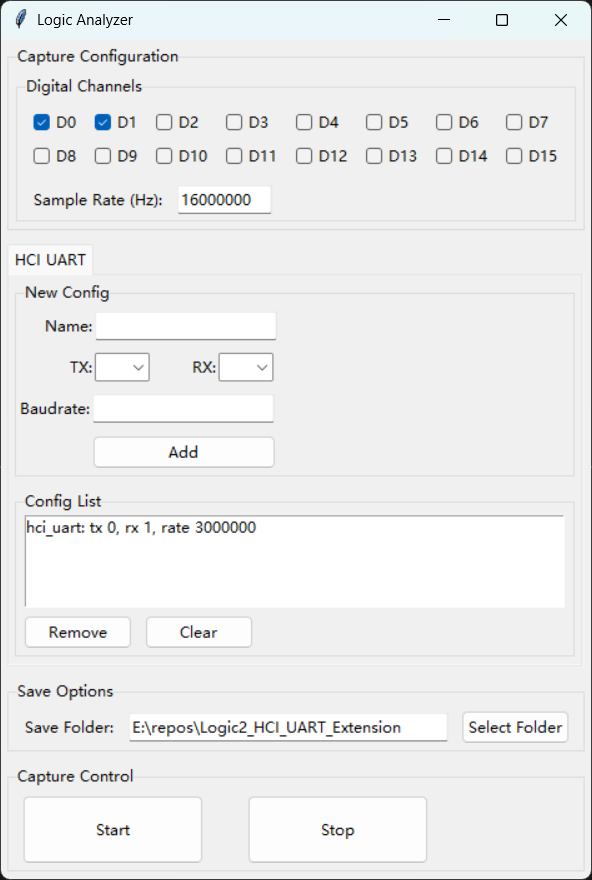
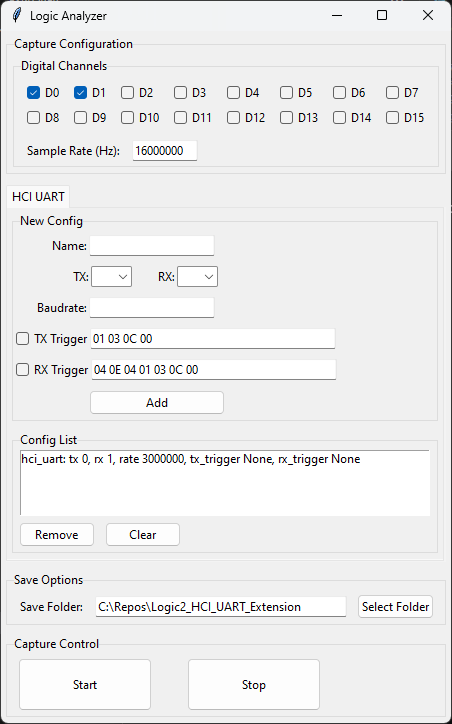
Add tx/rx trigger function, user can start HCI UART decoder with a special sequence.

diff --git a/logic2_analyzer_gui.py b/logic2_analyzer_gui.py
@@ -108,13 +108,19 @@ class GUI:
         frame_row_4 = ttk.Frame(frame_hci_uart_add)
         frame_row_4.pack(fill=tk.X, pady=5)
 
-        label_hci_uart_port_name = ttk.Label(frame_row_1, text="     Name:")
+        frame_row_5 = ttk.Frame(frame_hci_uart_add)
+        frame_row_5.pack(fill=tk.X, pady=5)
+
+        frame_row_6 = ttk.Frame(frame_hci_uart_add)
+        frame_row_6.pack(fill=tk.X, pady=5)
+
+        label_hci_uart_port_name = ttk.Label(frame_row_1, text="            Name:")
         label_hci_uart_port_name.pack(side='left')
         
         self.entry_hci_uart_port_name = ttk.Entry(frame_row_1, width=20)
         self.entry_hci_uart_port_name.pack(side='left')
         
-        label_hci_uart_port_tx = ttk.Label(frame_row_2, text="          TX:")
+        label_hci_uart_port_tx = ttk.Label(frame_row_2, text="                   TX:")
         label_hci_uart_port_tx.pack(side='left')
         
         self.combo_hci_uart_port_selector_tx = ttk.Combobox(frame_row_2, width=3, values=[i for i in range(16)])
@@ -126,15 +132,33 @@ class GUI:
         self.combo_hci_uart_port_selector_rx = ttk.Combobox(frame_row_2, width=3, values=[i for i in range(16)])
         self.combo_hci_uart_port_selector_rx.pack(side='left')
 
-        label_hci_uart_port_baudrate = ttk.Label(frame_row_3, text="Baudrate:")
+        label_hci_uart_port_baudrate = ttk.Label(frame_row_3, text="       Baudrate:")
         label_hci_uart_port_baudrate.pack(side='left')
 
         self.entry_hci_uart_port_baudrate = ttk.Entry(frame_row_3, width=20)
         self.entry_hci_uart_port_baudrate.pack(side='left')
 
+        self.tx_trigger = tk.BooleanVar(value=False)
+        check_button_tx_trigger = ttk.Checkbutton(frame_row_4, text=f"TX Trigger", variable=self.tx_trigger)
+        check_button_tx_trigger.pack(side='left')
+
+        tx_trigger_vlidate_cmd = (root.register(self.tx_trigger_validate), '%P')
+        self.tx_trigger_frame_var = tk.StringVar(value="01 03 0C 00") # HCI RESET CMD: 01 03 0C 00
+        entry_tx_trigger = ttk.Entry(frame_row_4, width=40, textvariable=self.tx_trigger_frame_var, validate='key', validatecommand=tx_trigger_vlidate_cmd)
+        entry_tx_trigger.pack(side='left')
+
+        self.rx_trigger = tk.BooleanVar(value=False)
+        check_button_rx_trigger = ttk.Checkbutton(frame_row_5, text=f"RX Trigger", variable=self.rx_trigger)
+        check_button_rx_trigger.pack(side='left')
+
+        rx_trigger_vlidate_cmd = (root.register(self.rx_trigger_validate), '%P')
+        self.rx_trigger_frame_var = tk.StringVar(value="04 0E 04 01 03 0C 00") # HCI RESET RES: 04 0E 04 01 03 0C 00
+        entry_rx_trigger = ttk.Entry(frame_row_5, width=40, textvariable=self.rx_trigger_frame_var, validate='key', validatecommand=rx_trigger_vlidate_cmd)
+        entry_rx_trigger.pack(side='left')
+
         ## HCI UART Port Add
-        btn_uart_port_add = ttk.Button(frame_row_4, text="Add", command=self.hci_uart_port_add)
-        btn_uart_port_add.pack(side='left', padx=60, ipadx=30)
+        btn_uart_port_add = ttk.Button(frame_row_6, text="Add", command=self.hci_uart_port_add)
+        btn_uart_port_add.pack(side='left', padx=75, ipadx=30)
 
         ## Listbox
         frame_hci_uart_list = ttk.LabelFrame(root, text="Config List")
@@ -142,7 +166,7 @@ class GUI:
 
         self.hci_uart_listbox = tk.Listbox(frame_hci_uart_list, height=4)
         self.hci_uart_listbox.pack(padx=5, fill='both')
-        self.hci_uart_listbox.insert(1, "hci_uart: tx 0, rx 1, rate 3000000")
+        self.hci_uart_listbox.insert(1, "hci_uart: tx 0, rx 1, rate 3000000, tx_trigger None, rx_trigger None")
 
         btn_uart_port_remove = ttk.Button(frame_hci_uart_list, text="Remove", command=self.hci_uart_port_remove)
         btn_uart_port_remove.pack(side='left', padx=5, pady=5)
@@ -150,6 +174,42 @@ class GUI:
         btn_uart_port_clear = ttk.Button(frame_hci_uart_list, text="Clear", command=self.hci_uart_port_remove_all)
         btn_uart_port_clear.pack(side='left', padx=5, pady=5)
 
+    def tx_trigger_validate(self, value):
+        value_str = value
+
+        if value_str == '':
+            return True
+
+        try:
+            value_str = [x for x in value_str.split(' ')]
+            if value_str[-1] == '':
+                value_str.pop()
+            values = [int(x, 16) for x in value_str]
+
+            if len(values) > 0 and all(0 <= x <= 255 for x in values):
+                return True
+        except:
+            return False
+    
+        return False
+
+    def rx_trigger_validate(self, value):
+        value_str = value
+
+        if value_str == '':
+            return True
+
+        try:
+            value_str = [x for x in value_str.split(' ')]
+            if value_str[-1] == '':
+                value_str.pop()
+            values = [int(x, 16) for x in value_str]
+            if len(values) > 0 and all(0 <= x <= 255 for x in values):
+                return True
+        except:
+            return False
+    
+        return False
 
     def __ui_save_config(self, root):
         # Save Options
@@ -194,8 +254,10 @@ class GUI:
         tx   = int(self.combo_hci_uart_port_selector_tx.get())
         rx   = int(self.combo_hci_uart_port_selector_rx.get())
         baudrate = int(self.entry_hci_uart_port_baudrate.get())
+        tx_trigger = self.tx_trigger_frame_var.get() if self.tx_trigger.get() else None
+        rx_trigger = self.rx_trigger_frame_var.get() if self.rx_trigger.get() else None
 
-        new_config = f"{name}: tx {tx}, rx {rx}, rate {baudrate}"
+        new_config = f"{name}: tx {tx}, rx {rx}, rate {baudrate}, tx_trigger {tx_trigger}, rx_trigger {rx_trigger}"
 
         # skip if duplicate
         for i in range(self.hci_uart_listbox.size()):
@@ -258,7 +320,8 @@ class GUI:
         for index in range(self.hci_uart_listbox.size()):
             config_str = self.hci_uart_listbox.get(index)
 
-            res = re.findall(r"(\w+): tx (\d+), rx (\d+), rate (\d+)", config_str)
+            # f"{name}: tx {tx}, rx {rx}, rate {baudrate}, tx_trigger {tx_trigger}, rx_trigger {rx_trigger}"
+            res = re.findall(r"(\w+): tx (\d+), rx (\d+), rate (\d+), tx_trigger (.*?), rx_trigger (.*+)", config_str)
             if res == []:
                 continue
 
@@ -268,8 +331,10 @@ class GUI:
             tx   = int(res[1])
             rx   = int(res[2])
             rate = int(res[3])
+            tx_trigger = res[4] if res[4] != 'None' else ''
+            rx_trigger = res[5] if res[5] != 'None' else ''
 
-            self.analyzer.export_btsnoop(name, tx_channel=tx, rx_channel=rx, bit_rate=rate)
+            self.analyzer.export_btsnoop(name, tx_channel=tx, rx_channel=rx, bit_rate=rate, trigger_frame_tx=tx_trigger, trigger_frame_rx=rx_trigger)
         
             info += f"{name} btsnoop generated!\n"
 

diff --git a/HCI_UART/HighLevelAnalyzer.py b/HCI_UART/HighLevelAnalyzer.py
@@ -7,7 +7,9 @@ from saleae.analyzers import HighLevelAnalyzer, AnalyzerFrame, StringSetting, Nu
 # High level analyzers must subclass the HighLevelAnalyzer class.
 class Hla(HighLevelAnalyzer):
 
-    role_choice = ChoicesSetting(choices=("Host->Controller", "Controller->Host"))
+    s1_role_choice = ChoicesSetting(label="Role Choice", choices=["Host->Controller", "Controller->Host"])
+    s2_decode_mode = ChoicesSetting(label="Decode Mode", choices=["Always", "Trigger"])
+    s3_decode_trigger_frame = StringSetting(label="Decode Trigger Frame") # HCI RESET: 01 03 0C 00, RES: 04 0E 04 01 03 0C 00
 
     # An optional list of types this analyzer produces, providing a way to customize the way frames are displayed in Logic 2.
     result_types = {
@@ -40,8 +42,6 @@ class Hla(HighLevelAnalyzer):
     }
 
     def __init__(self):
-        print("Settings:", self.role_choice)
-
         # receive state
         self.state = self.HCI_PACK_IDEL
 
@@ -50,6 +50,25 @@ class Hla(HighLevelAnalyzer):
 
         # uart stream
         self.uart_frames = []
+
+        # trigger stream
+        self.decode_trigger_frame = []
+        self.triggered = True
+        self.trigger_stream = []
+        if self.s2_decode_mode == "Trigger" and len(self.s3_decode_trigger_frame) > 0:
+            self.triggered = False
+            self.__decode_trigger_set()
+
+    def __decode_trigger_set(self):
+        frame_str = self.s3_decode_trigger_frame.split(' ')
+        frame = [int(x, 16) for x in frame_str]
+        for f in frame:
+            if f in range(0x00, 0xFF+1):
+                self.decode_trigger_frame.append(f)
+            else:
+                print(f"Invalid trigger frame byte: {f}")
+                self.decode_trigger_frame = []
+                break
 
     def __payload_len(self, hci_header):
         hci_id = hci_header[0]
@@ -126,13 +145,46 @@ class Hla(HighLevelAnalyzer):
         return start_time, end_time, pack_data
 
     def decode(self, frame: AnalyzerFrame):
+        # Check if decode mode is set to "Always" or if trigger frame matches
+        if self.s2_decode_mode == "Trigger" and not self.triggered:
+            # append the buffer
+            self.trigger_stream.append(frame)
+            
+            # skip if the length not enough
+            if len(self.trigger_stream) < len(self.decode_trigger_frame):
+                return
+            
+            # remove the first one if length is bigger than the length
+            if len(self.trigger_stream) > len(self.decode_trigger_frame):
+                self.trigger_stream = self.trigger_stream[1:]
+            
+            # check if it match with the trigger frame
+            frame_data = [self.__get_frame_data(x) for x in self.trigger_stream]
+            if frame_data != self.decode_trigger_frame:
+                return
+
+            self.triggered = True
         
         # try get one full pack
-        start_time, end_time, pack_data = self.__get_hci_pack(frame)
+        if len(self.trigger_stream) > 0:
+            # add to the tail of the stream
+            self.trigger_stream.append(frame)
+            while len(self.trigger_stream) > 0:
+                # get the first frame then remove it from stream
+                trigger_frame = self.trigger_stream[0]
+                self.trigger_stream = self.trigger_stream[1:]
+                # feed first frame into packet processing
+                start_time, end_time, pack_data = self.__get_hci_pack(trigger_frame)
+                # if find one packet, then break the loop
+                if pack_data != None:
+                    break
+                # if not find, then continue processing next frame
+        else:
+            start_time, end_time, pack_data = self.__get_hci_pack(frame)
 
         # Return the data frame itself
         if pack_data != None:
-            if self.role_choice == "Host->Controller":
+            if self.s1_role_choice == "Host->Controller":
                 pack_data = "H->C:" + pack_data
             else:
                 pack_data = "C->H:" + pack_data

diff --git a/logic2_analyzer.py b/logic2_analyzer.py
@@ -121,7 +121,7 @@ class Logic2_Analyzer:
         self.manager.close()
 
 
-    def export_btsnoop(self, name, tx_channel, rx_channel, bit_rate):
+    def export_btsnoop(self, name, tx_channel, rx_channel, bit_rate, trigger_frame_tx="", trigger_frame_rx=""):
         uart_tx = self.capture.add_analyzer(
             "Async Serial",
             label=f"{name}_UART_TX",
@@ -146,7 +146,9 @@ class Logic2_Analyzer:
             input_analyzer=uart_tx,
             settings={
                 "input analyzer": f"{name}_UART_TX",
-                "role_choice": "Host->Controller",
+                "s1_role_choice": "Host->Controller",
+                "s2_decode_mode": "Always" if trigger_frame_tx == "" else "Trigger",
+                "s3_decode_trigger_frame": trigger_frame_tx,
                 "show in protocol results table": True
             },
             label=f"{name}_HCI_TX"
@@ -158,7 +160,9 @@ class Logic2_Analyzer:
             input_analyzer=uart_rx,
             settings={
                 "input analyzer": f"{name}_UART_RX",
-                "role_choice": "Controller->Host",
+                "s1_role_choice": "Controller->Host",
+                "s2_decode_mode": "Always" if trigger_frame_rx == "" else "Trigger",
+                "s3_decode_trigger_frame": trigger_frame_rx,
                 "show in protocol results table": True
             },
             label=f"{name}_HCI_RX"
